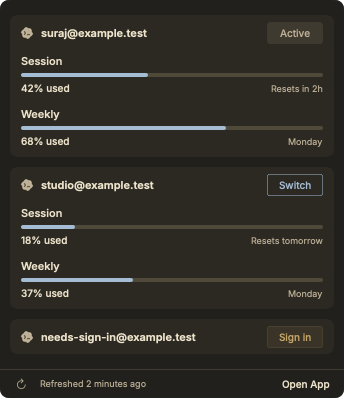
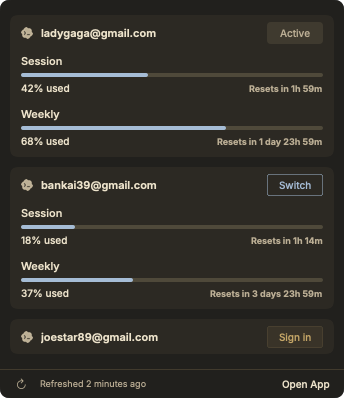
Show precise reset times and refresh Preview images

diff --git a/packages/mac-gui/Sources/AIManagerMacGUI/AccountViewModel.swift b/packages/mac-gui/Sources/AIManagerMacGUI/AccountViewModel.swift
@@ -1689,13 +1689,14 @@ private enum DemoData {
     }
 
     static let accounts = [
-        account(id: "7A08CA5E-F528-4E45-B730-DAF68B0A3133", email: "suraj@example.com", workspace: "personal", state: .verifiedWithCodex, detail: "Codex CLI account check completed at 10:15 AM."),
-        account(id: "5EA89BE0-D9A1-4727-983B-91640279C396", email: "studio@example.com", workspace: "design-team", state: .needsSignIn, detail: "Sign in before this account can launch Codex."),
-        account(id: "A9FC9B4F-94AC-4645-AF6C-617546DBA966", email: "studio@example.com", workspace: "research-team", state: .imported, detail: "Imported locally. The account check has not run."),
+        account(id: "7A08CA5E-F528-4E45-B730-DAF68B0A3133", email: "ladygaga@gmail.com", workspace: "personal", state: .verifiedWithCodex, detail: "Codex CLI account check completed at 10:15 AM."),
+        account(id: "5EA89BE0-D9A1-4727-983B-91640279C396", email: "bankai39@gmail.com", workspace: "design-team", state: .needsSignIn, detail: "Sign in before this account can launch Codex."),
+        account(id: "A9FC9B4F-94AC-4645-AF6C-617546DBA966", email: "joestar89@gmail.com", workspace: "research-team", state: .imported, detail: "Imported locally. The account check has not run."),
     ]
 
     static func usage(account: AccountRecord, offset: Int) -> CodexAccountUsageSnapshot {
         let used = [42, 68, 17][offset % 3]
+        let resetNow = Date()
         return CodexAccountUsageSnapshot(
             account: CodexAccountDetailsSnapshot(
                 kind: "chatgpt",
@@ -1714,12 +1715,12 @@ private enum DemoData {
                     primary: CodexRateLimitWindowSnapshot(
                         usedPercent: used,
                         windowDurationMinutes: 300,
-                        resetsAt: now.addingTimeInterval(Double(75 + offset * 20) * 60)
+                        resetsAt: resetNow.addingTimeInterval(Double(75 + offset * 20) * 60)
                     ),
                     secondary: CodexRateLimitWindowSnapshot(
                         usedPercent: min(used + 11, 100),
                         windowDurationMinutes: 10_080,
-                        resetsAt: now.addingTimeInterval(Double(2 + offset) * 86_400)
+                        resetsAt: resetNow.addingTimeInterval(Double(2 + offset) * 86_400)
                     ),
                     credits: CodexCreditsSnapshot(
                         hasCredits: true,
@@ -1737,7 +1738,7 @@ private enum DemoData {
                         primary: CodexRateLimitWindowSnapshot(
                             usedPercent: min(used + 8, 100),
                             windowDurationMinutes: 1_440,
-                            resetsAt: now.addingTimeInterval(Double(12 + offset) * 3_600)
+                            resetsAt: resetNow.addingTimeInterval(Double(12 + offset) * 3_600)
                         ),
                         secondary: nil,
                         credits: nil,
@@ -1757,13 +1758,13 @@ private enum DemoData {
                 CodexDailyUsageSnapshot(startDate: "2026-09-13", tokens: Int64(31_000 + offset * 4_000)),
                 CodexDailyUsageSnapshot(startDate: "2026-09-12", tokens: Int64(18_000 + offset * 3_000)),
             ],
-            fetchedAt: now.addingTimeInterval(Double(-offset * 480))
+            fetchedAt: resetNow.addingTimeInterval(Double(-offset * 480))
         )
     }
 
     static let discoveries = [
-        source(id: "default-home", path: "/Demo/Sources/.codex", email: "new@example.com", workspace: "personal", settings: ["config.toml", "AGENTS.md", "rules", "skills"], active: 248, archived: 19),
-        source(id: "orca-team", path: "/Demo/Sources/Orca/team", email: "studio@example.com", workspace: "research-team", settings: ["config.toml", "rules", "skills", "hooks.json"], active: 291, archived: 9),
+        source(id: "default-home", path: "/Demo/Sources/.codex", email: "ladygaga@gmail.com", workspace: "personal", settings: ["config.toml", "AGENTS.md", "rules", "skills"], active: 248, archived: 19),
+        source(id: "orca-team", path: "/Demo/Sources/Orca/team", email: "bankai39@gmail.com", workspace: "research-team", settings: ["config.toml", "rules", "skills", "hooks.json"], active: 291, archived: 9),
         DiscoveredSource(
             id: "needs-sign-in",
             path: URL(fileURLWithPath: "/Demo/Sources/Needs Sign-in", isDirectory: true),
@@ -1784,7 +1785,7 @@ private enum DemoData {
         ),
     ]
 
-    static let manualSource = source(id: "chosen-home", path: "/Demo/Sources/Chosen Home", email: "chosen@example.com", workspace: "freelance", settings: ["config.toml", "AGENTS.md"], active: 37, archived: 2)
+    static let manualSource = source(id: "chosen-home", path: "/Demo/Sources/Chosen Home", email: "joestar89@gmail.com", workspace: "freelance", settings: ["config.toml", "AGENTS.md"], active: 37, archived: 2)
 
     static func importPlan(source: DiscoveredSource, identity: AccountIdentity, mode: ImportMode, paths: ManagerPaths) -> ImportPlan {
         let id: UUID

diff --git a/packages/mac-gui/Sources/AIManagerMacGUI/MenuBarPopover.swift b/packages/mac-gui/Sources/AIManagerMacGUI/MenuBarPopover.swift
@@ -5,21 +5,21 @@ import SwiftUI
 struct MenuBarUsageSnapshot: Equatable, Sendable {
   let usedPercentage: Int?
   let secondaryUsedPercentage: Int?
-  let resetDescription: String?
-  let secondaryResetDescription: String?
+  let resetsAt: Date?
+  let secondaryResetsAt: Date?
   let fetchedAt: Date?
 
   init(
     usedPercentage: Int?,
     secondaryUsedPercentage: Int? = nil,
-    resetDescription: String? = nil,
-    secondaryResetDescription: String? = nil,
+    resetsAt: Date? = nil,
+    secondaryResetsAt: Date? = nil,
     fetchedAt: Date? = nil
   ) {
     self.usedPercentage = usedPercentage.map { min(max($0, 0), 100) }
     self.secondaryUsedPercentage = secondaryUsedPercentage.map { min(max($0, 0), 100) }
-    self.resetDescription = resetDescription
-    self.secondaryResetDescription = secondaryResetDescription
+    self.resetsAt = resetsAt
+    self.secondaryResetsAt = secondaryResetsAt
     self.fetchedAt = fetchedAt
   }
 
@@ -31,8 +31,8 @@ struct MenuBarUsageSnapshot: Equatable, Sendable {
     self.init(
       usedPercentage: session?.usedPercent,
       secondaryUsedPercentage: weekly?.usedPercent,
-      resetDescription: session?.resetsAt.map { "resets \($0.formatted(.relative(presentation: .named)))" },
-      secondaryResetDescription: weekly?.resetsAt.map { "resets \($0.formatted(.relative(presentation: .named)))" },
+      resetsAt: session?.resetsAt,
+      secondaryResetsAt: weekly?.resetsAt,
       fetchedAt: fetchedAt)
   }
 
@@ -413,12 +413,12 @@ private struct MenuBarAccountRow: View {
           if let percentage = usage.usedPercentage {
             MenuBarQuotaRow(
               label: "Session", percentage: percentage,
-              reset: usage.resetDescription, palette: palette)
+              reset: usage.resetsAt, palette: palette)
           }
           if let percentage = usage.secondaryUsedPercentage {
             MenuBarQuotaRow(
               label: "Weekly", percentage: percentage,
-              reset: usage.secondaryResetDescription, palette: palette)
+              reset: usage.secondaryResetsAt, palette: palette)
           }
         }
         .padding(.horizontal, 11)
@@ -482,7 +482,7 @@ private struct MenuBarAccountRow: View {
 private struct MenuBarQuotaRow: View {
   let label: String
   let percentage: Int
-  let reset: String?
+  let reset: Date?
   let palette: MenuBarPalette
   @Environment(\.accessibilityReduceMotion) private var reduceMotion
 
@@ -506,10 +506,14 @@ private struct MenuBarQuotaRow: View {
           .font(AIMTheme.sans(10, weight: .medium))
           .foregroundStyle(palette.ink)
         Spacer(minLength: 0)
-        Text(reset ?? "")
-          .font(AIMTheme.sans(9))
-          .foregroundStyle(palette.muted)
-          .lineLimit(1)
+        if let reset {
+          TimelineView(.periodic(from: .now, by: 60)) { context in
+            Text(UsageResetLabel.text(until: reset, now: context.date))
+              .font(AIMTheme.sans(9, weight: .bold))
+              .foregroundStyle(palette.muted)
+              .lineLimit(1)
+          }
+        }
       }
     }
     .frame(height: MenuBarPopover.quotaRowHeight)
@@ -560,23 +564,25 @@ enum MenuBarPopoverPreviewData {
     accounts: [
       MenuBarAccountSnapshot(
         id: UUID(uuidString: "66D91DF8-056C-4DD0-AF97-EAF45D74A8D2")!,
-        identity: "suraj@example.test", detail: "Codex CLI · Personal",
+        identity: "ladygaga@gmail.com", detail: "Codex CLI · Personal",
         isVerified: true, isActive: true,
         usage: MenuBarUsageSnapshot(
           usedPercentage: 42, secondaryUsedPercentage: 68,
-          resetDescription: "Resets in 2h", secondaryResetDescription: "Monday",
+          resetsAt: Date().addingTimeInterval(2 * 3_600),
+          secondaryResetsAt: Date().addingTimeInterval(2 * 86_400),
           fetchedAt: Date().addingTimeInterval(-120))),
       MenuBarAccountSnapshot(
         id: UUID(uuidString: "15431467-BF10-4BCB-9300-C785336CB1D1")!,
-        identity: "studio@example.test", detail: "Codex CLI · Studio",
+        identity: "bankai39@gmail.com", detail: "Codex CLI · Studio",
         isVerified: true, isActive: false,
         usage: MenuBarUsageSnapshot(
           usedPercentage: 18, secondaryUsedPercentage: 37,
-          resetDescription: "Resets tomorrow",
-          secondaryResetDescription: "Monday", fetchedAt: Date().addingTimeInterval(-480))),
+          resetsAt: Date().addingTimeInterval(75 * 60),
+          secondaryResetsAt: Date().addingTimeInterval(4 * 86_400),
+          fetchedAt: Date().addingTimeInterval(-480))),
       MenuBarAccountSnapshot(
         id: UUID(uuidString: "DB9AB65A-F894-426D-8A16-86772A8F054D")!,
-        identity: "needs-sign-in@example.test", detail: "Codex CLI · Personal",
+        identity: "joestar89@gmail.com", detail: "Codex CLI · Personal",
         isVerified: false, isActive: false),
     ])
 }

diff --git a/packages/mac-gui/Tests/NativeUIContract.swift b/packages/mac-gui/Tests/NativeUIContract.swift
@@ -428,6 +428,19 @@ enum AIManagerNativeContract {
       secondary: nil, credits: nil, spendControlReached: nil), fetchedAt: activityEnd)
     expect(weeklyPrimary?.usedPercentage == nil && weeklyPrimary?.secondaryUsedPercentage == 1,
       "A weekly-only primary response is incorrectly labelled as five-hour usage")
+    let resetNow = Date(timeIntervalSince1970: 0)
+    expect(UsageResetLabel.text(until: resetNow.addingTimeInterval(2 * 86_400 - 60), now: resetNow)
+      == "Resets in 1 day 23h 59m", "Reset countdown rounds almost two days up")
+    expect(UsageResetLabel.text(until: resetNow.addingTimeInterval(2 * 86_400), now: resetNow)
+      == "Resets in 2 days 0h 0m", "Reset countdown drops exact days")
+    expect(UsageResetLabel.text(until: resetNow.addingTimeInterval(86_400 + 2 * 3_600 + 3 * 60), now: resetNow)
+      == "Resets in 1 day 2h 3m", "Reset countdown drops hours or minutes")
+    expect(UsageResetLabel.text(until: resetNow.addingTimeInterval(3_600), now: resetNow)
+      == "Resets in 1h 0m", "Reset countdown has the wrong hour boundary")
+    expect(UsageResetLabel.text(until: resetNow.addingTimeInterval(59), now: resetNow)
+      == "Resets in <1m", "Reset countdown says zero minutes before reset")
+    expect(UsageResetLabel.text(until: resetNow, now: resetNow) == "Resets now",
+      "Reset countdown keeps counting after reset")
     failures.append(contentsOf: activityCalendarRenderFailures())
     failures.append(contentsOf: menuBarUsagePreferenceFailures())
     return failures
@@ -695,7 +708,7 @@ enum AIManagerNativeContract {
     expect(snapshot.accounts.first?.isActive == true, "Preview menu snapshot lacks an active account")
     expect(snapshot.accounts.contains(where: { !$0.isVerified }), "Preview menu snapshot lacks an unavailable row")
     expect(snapshot.accounts.compactMap(\.usage).contains(where: {
-      $0.resetDescription != nil && $0.fetchedAt != nil
+      $0.resetsAt != nil && $0.fetchedAt != nil
     }), "Preview menu snapshot lacks cached reset details")
 
     let controller = AIManagerStatusItemController(

diff --git a/packages/mac-gui/Sources/AIManagerMacGUI/AIManagerDesign.swift b/packages/mac-gui/Sources/AIManagerMacGUI/AIManagerDesign.swift
@@ -33,6 +33,21 @@ enum AIMTranslucency {
   }
 }
 
+enum UsageResetLabel {
+  static func text(until reset: Date, now: Date = Date()) -> String {
+    let minutes = Int(max(0, reset.timeIntervalSince(now)) / 60)
+    if minutes == 0 { return reset > now ? "Resets in <1m" : "Resets now" }
+    let days = minutes / 1_440
+    let hours = (minutes % 1_440) / 60
+    let remainingMinutes = minutes % 60
+    if days > 0 {
+      return "Resets in \(days) \(days == 1 ? "day" : "days") \(hours)h \(remainingMinutes)m"
+    }
+    if hours > 0 { return "Resets in \(hours)h \(remainingMinutes)m" }
+    return "Resets in \(remainingMinutes)m"
+  }
+}
+
 private struct AIMAdaptiveColor: ShapeStyle, Hashable {
   let light: UInt32
   let dark: UInt32
@@ -150,6 +165,7 @@ enum AIMTheme {
     case regular = "Regular"
     case medium = "Medium"
     case semibold = "SemiBold"
+    case bold = "Bold"
   }
 
   static func sans(_ size: CGFloat, weight: FontWeight = .regular) -> Font {
@@ -247,6 +263,7 @@ private extension AIMTheme.FontWeight {
     case .regular: .regular
     case .medium: .medium
     case .semibold: .semibold
+    case .bold: .bold
     }
   }
 }

diff --git a/packages/mac-gui/Sources/AIManagerMacGUI/AccountWindow.swift b/packages/mac-gui/Sources/AIManagerMacGUI/AccountWindow.swift
@@ -1668,8 +1668,11 @@ private struct UsageMeter: View {
       }
       .frame(height: 5)
       if let reset = window.resetsAt {
-        Text("Resets \(reset.formatted(.relative(presentation: .named)))")
-          .font(AIMTheme.sans(9)).foregroundStyle(AIMTheme.muted)
+        TimelineView(.periodic(from: .now, by: 60)) { context in
+          Text(UsageResetLabel.text(until: reset, now: context.date))
+            .font(AIMTheme.sans(9, weight: .bold))
+            .foregroundStyle(AIMTheme.muted)
+        }
       }
     }
     .frame(maxWidth: .infinity)
